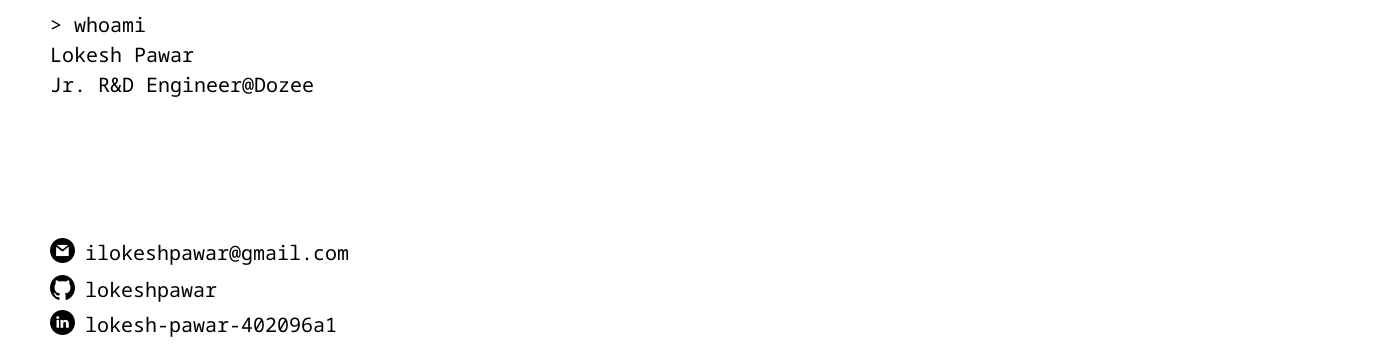
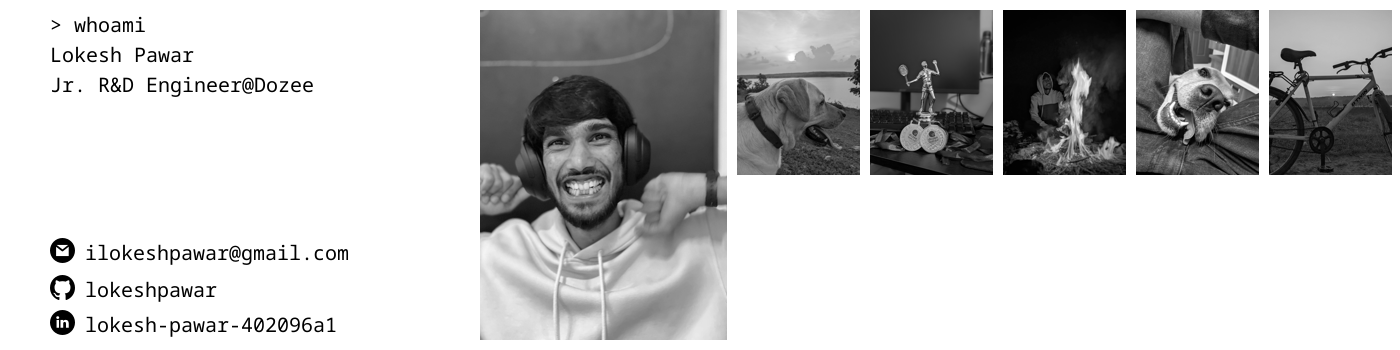
wip

diff --git a/src/poster/main.py b/src/poster/main.py
@@ -39,9 +39,22 @@ def svg_to_png(
         raise
 
 
+def remove_image_metadata(image: Path) -> None:
+    """Remove metadata from an image file using exiftool."""
+    try:
+        subprocess.run(
+            ["exiftool", "-all=", "-overwrite_original", str(image)],
+            check=True,
+        )
+    except subprocess.CalledProcessError as e:
+        print(f"Error removing metadata: {e}")
+        raise
+
+
 def new_image(size: Tuple[int, int], color: str = "white") -> Image.Image:
     """Create a new blank image with the given width, height, and background color."""
     config = load_config(Path("config/config.toml"))
+    # print(f"config: {config}")  # ANCHOR - Debugging line
 
     image = Image.new("RGB", size=size, color=color)
     logo_info = config["logo"]
@@ -77,7 +90,33 @@ def new_image(size: Tuple[int, int], color: str = "white") -> Image.Image:
             fill="black",
             font=font,
         )
-    for png in os.listdir("assets"):
+
+    pictures = config["picture"]
+    horizontal_offset = 480
+    for pic in pictures.keys():
+        try:
+            remove_image_metadata(Path(pictures[pic]))
+        except Exception as e:
+            print(f"Skipping metadata removal for {pictures[pic]}: {e}")
+        with Image.open(pictures[pic]) as pic_img:
+            pic_img = pic_img.convert("L")  # Convert to grayscale
+            aspect_ratio = pic_img.size[0] / pic_img.size[1]
+            if str(pic).startswith("lol"):
+                new_height = 330
+            else:
+                new_height = 165
+            new_width = int(new_height * aspect_ratio)
+            print(f"Resizing {pic} to {new_width}x{new_height}")
+            pic_img = pic_img.resize((new_width, new_height))
+            image.paste(
+                pic_img,
+                (horizontal_offset, 10),
+            )
+        if str(pic).startswith("lol"):
+            horizontal_offset += new_width + 10
+        else:
+            horizontal_offset += new_width + 10
+    for png in os.listdir("assets/svg"):
         if png.endswith(".png"):
-            os.unlink(os.path.join("assets", png))
+            os.unlink(os.path.join("assets/svg", png))
     return image

diff --git a/README.md b/README.md
@@ -17,3 +17,4 @@ This repository is to create profile picture and cover photo. While watching a v
 - [svg source](https://www.svgrepo.com/)
 - [fonts source](https://fonts.google.com/noto/specimen/Noto+Sans+Mono)
 - [Tom's Obvious, Minimal Language (TOML) for config](https://toml.io/en/)
+- I have used [ExifTool by Phil Harvey](https://exiftool.org/) to remove metadata from images. **If you haven't checked it out, please do. It is an amazing tool to have in your toolkit.**
